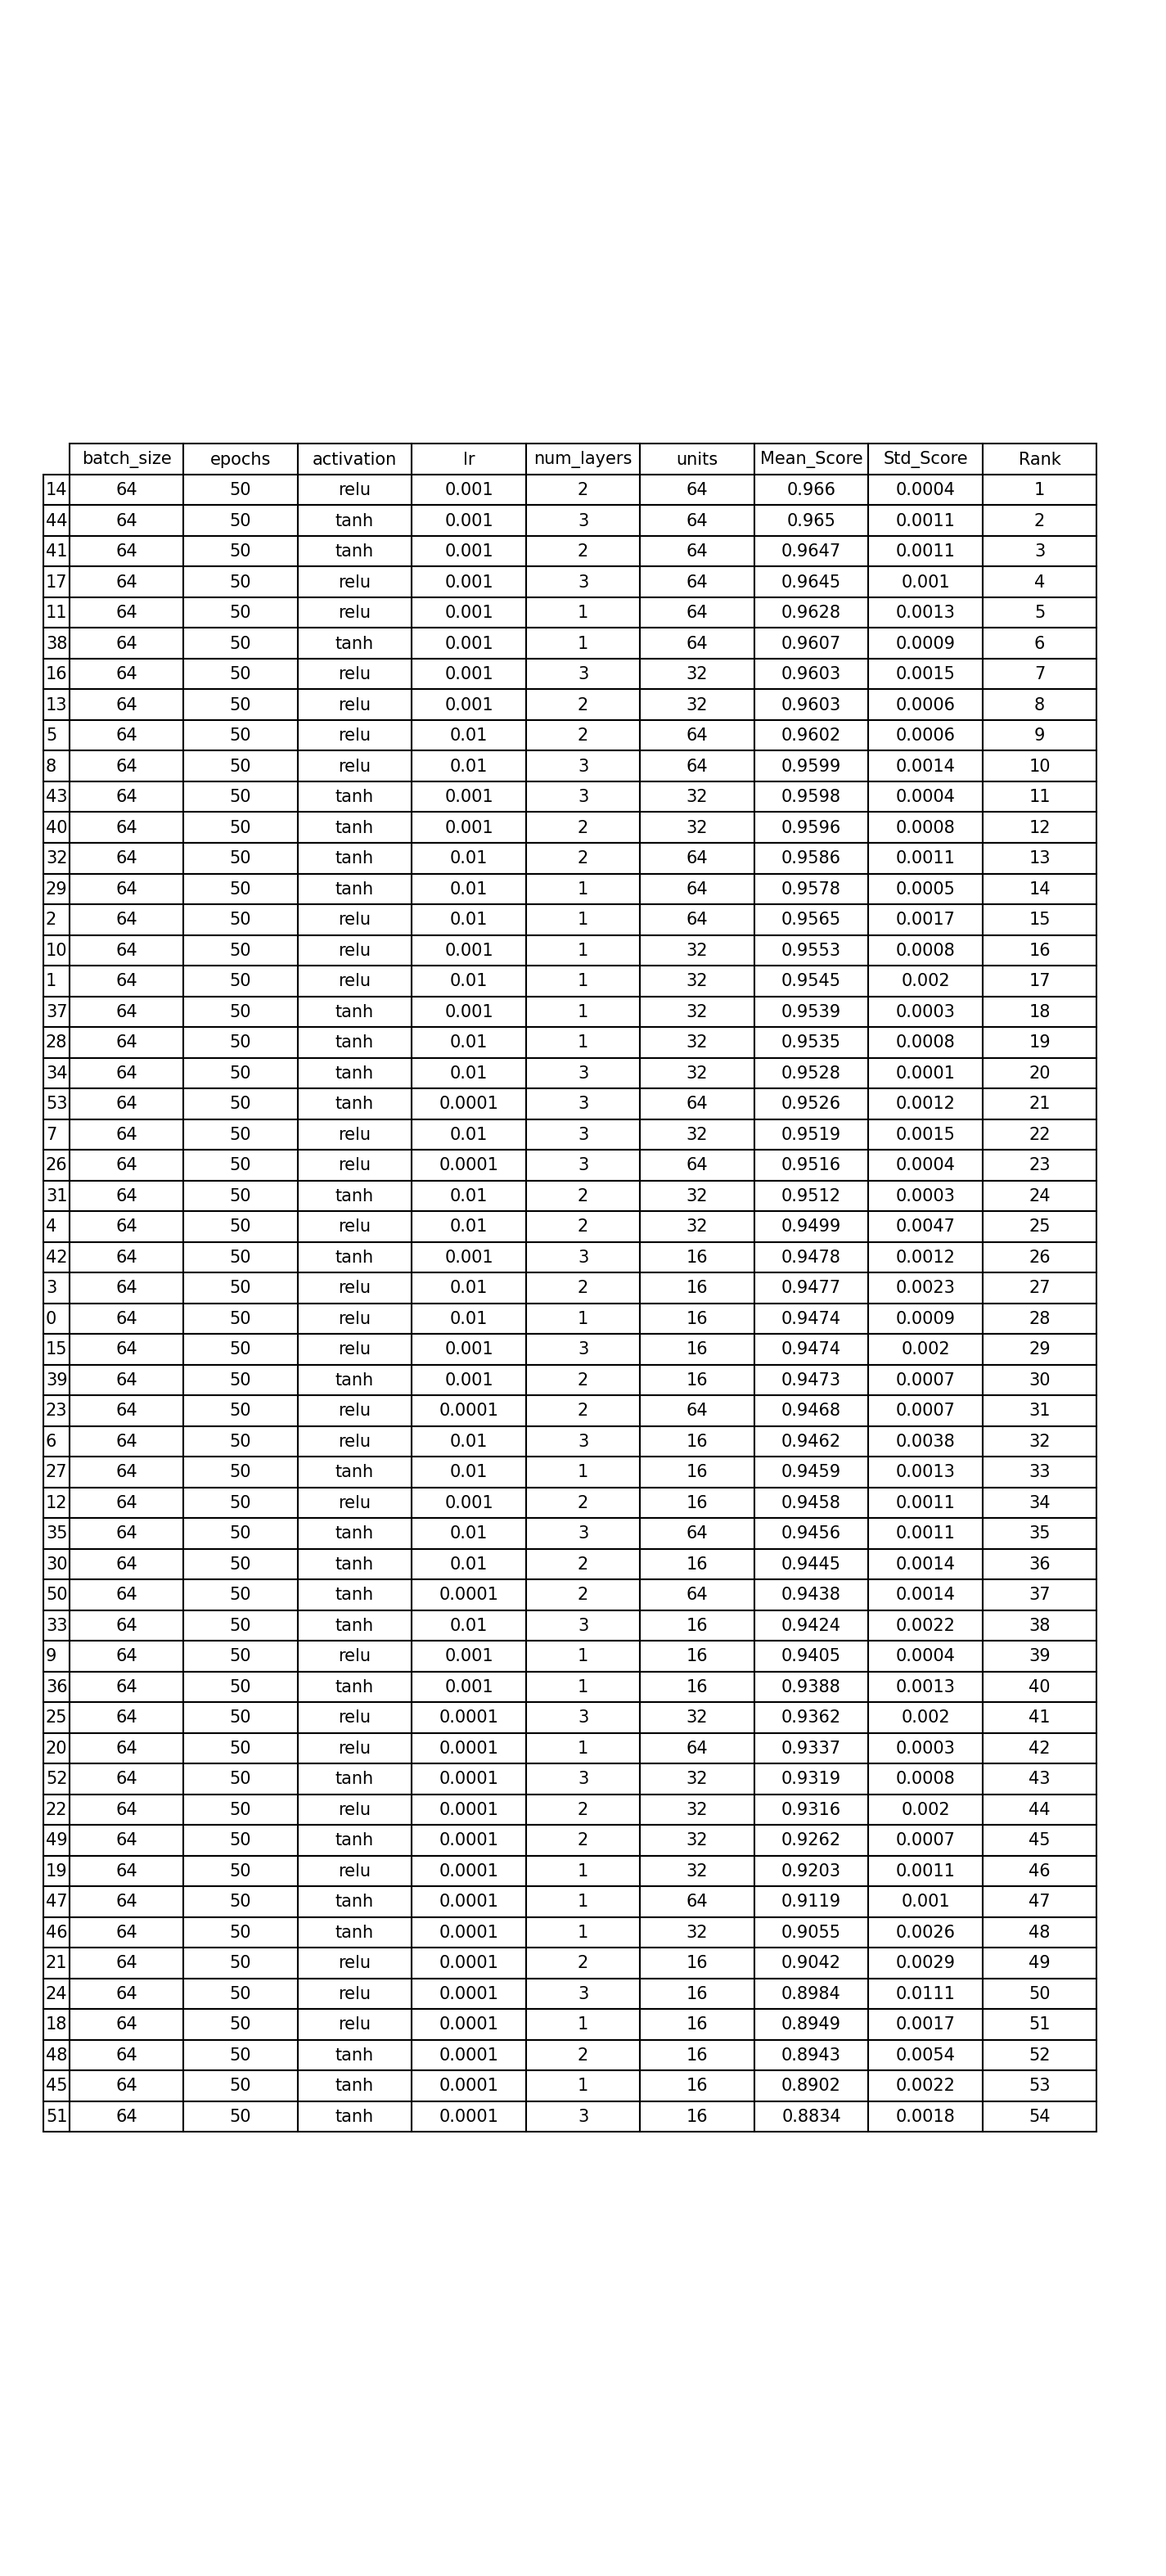
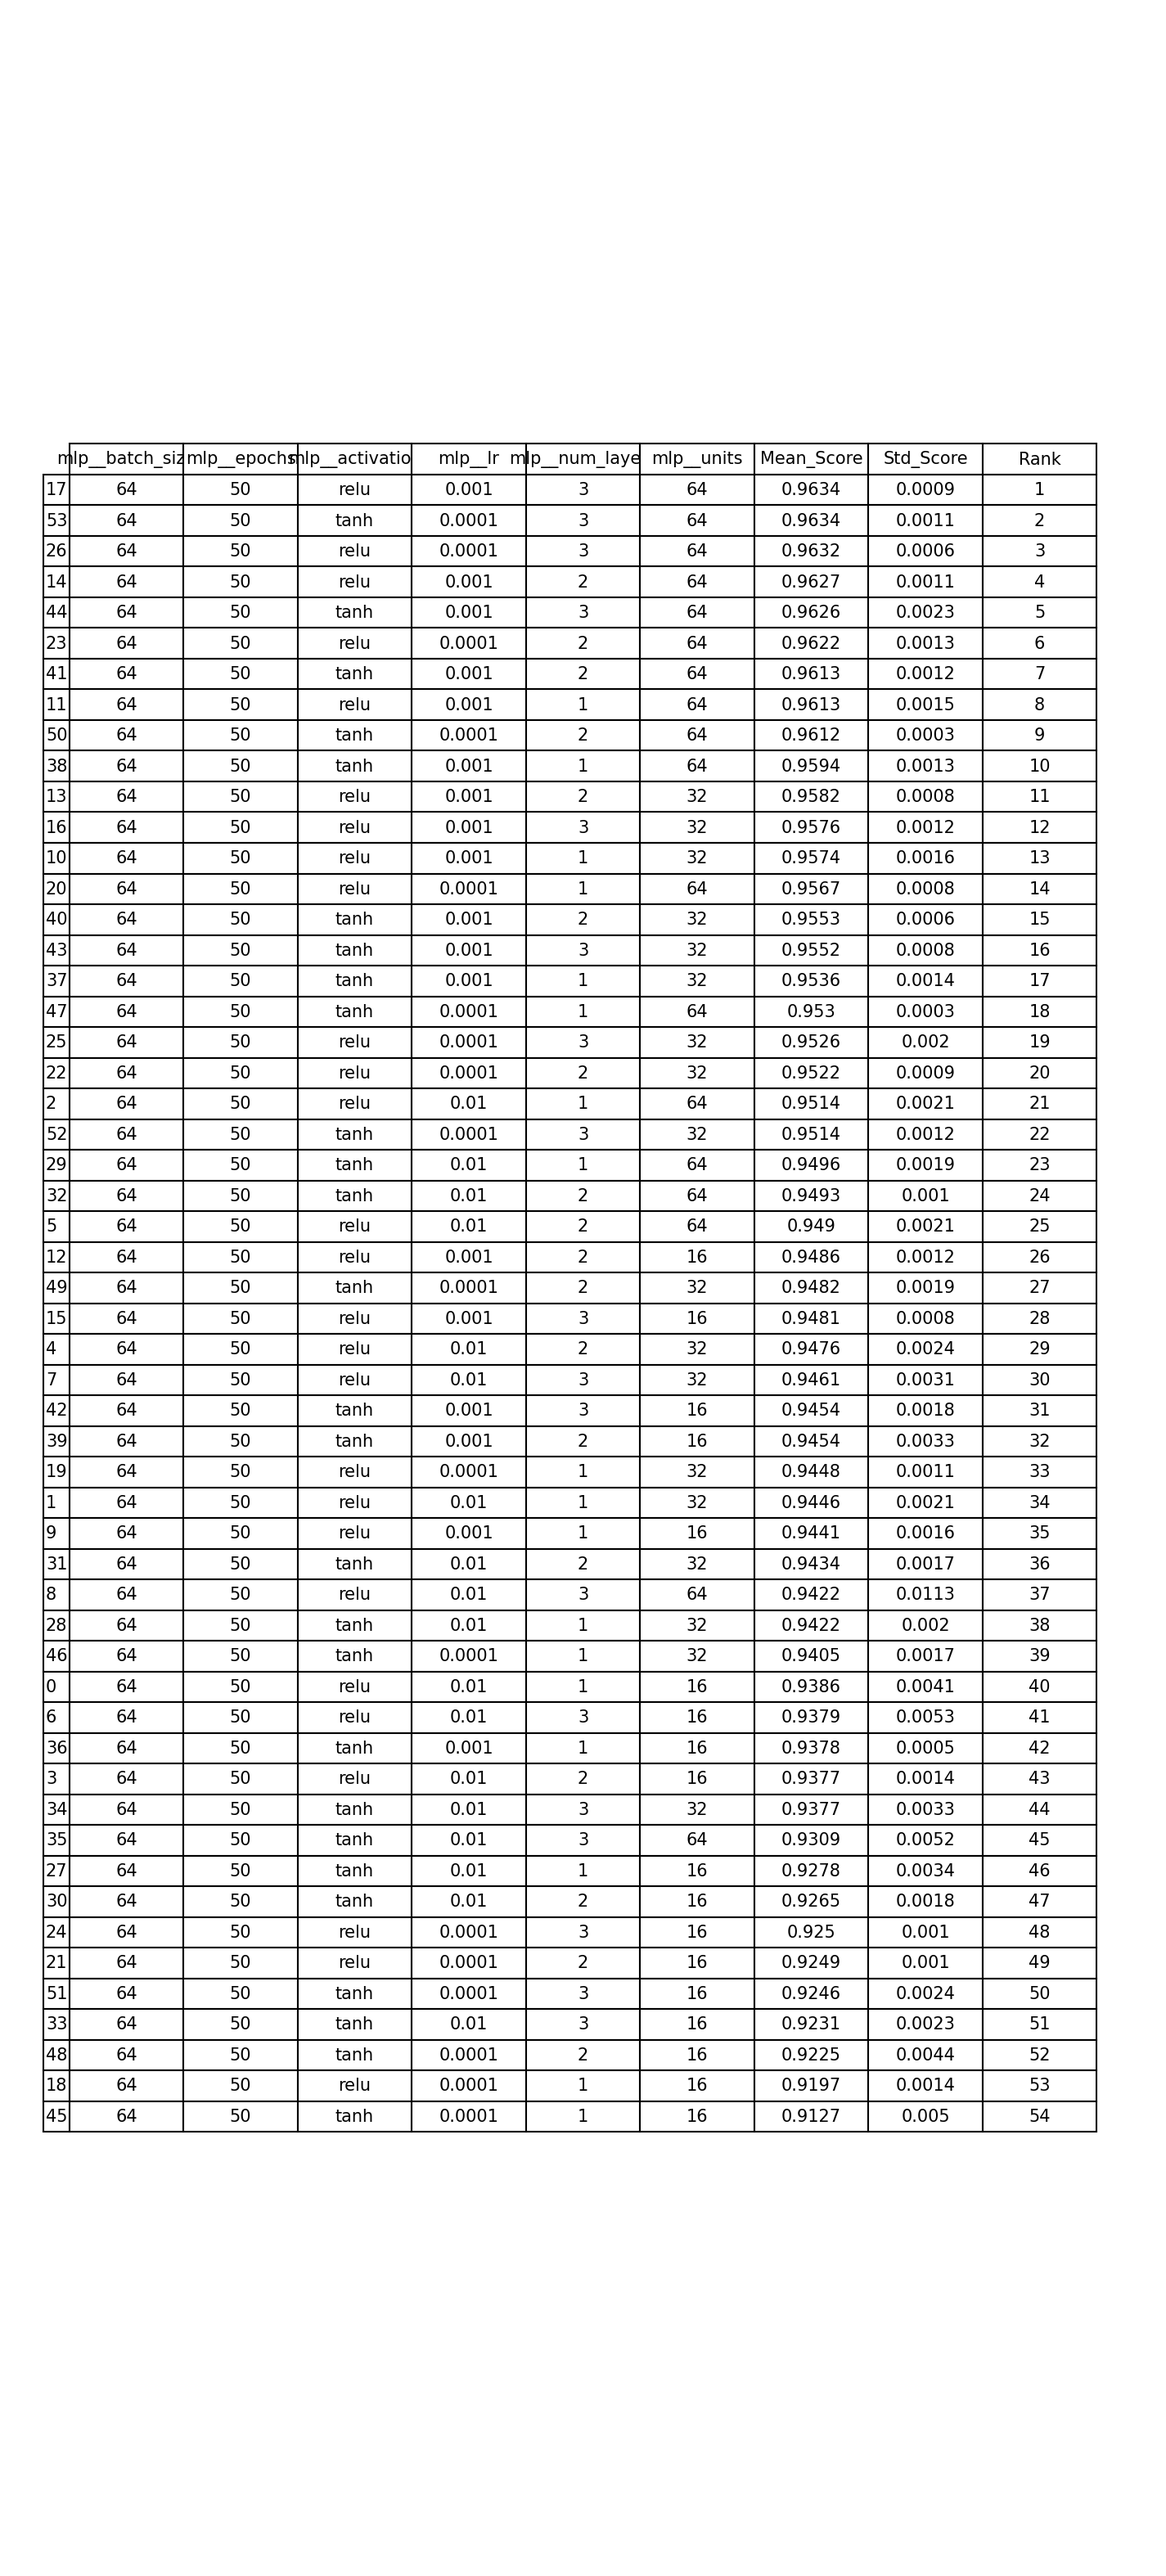
plots i metrics

diff --git a/make_plots.py b/make_plots.py
@@ -1,0 +1,119 @@
+import os
+import joblib
+import numpy as np
+import matplotlib.pyplot as plt
+
+from classes.dataloader import DataLoader
+
+from sklearn.metrics import (
+    accuracy_score,
+    precision_score,
+    recall_score,
+    f1_score,
+    confusion_matrix,
+    ConfusionMatrixDisplay,
+    classification_report,
+    roc_curve,
+    auc
+)
+from sklearn.preprocessing import label_binarize
+
+
+class ModelEvaluator:
+    def __init__(self, model_path, output_dir="results"):
+        self.model = joblib.load(model_path)
+        self.output_dir = output_dir
+
+        self.metrics_dir = os.path.join(output_dir, "metrics")
+        self.plots_dir = os.path.join(output_dir, "plots")
+
+        os.makedirs(self.metrics_dir, exist_ok=True)
+        os.makedirs(self.plots_dir, exist_ok=True)
+
+    def evaluate(self, X_test, y_test):
+        self.y_test = y_test
+        self.y_pred = self.model.predict(X_test)
+
+        # podstawowe metryki
+        results = {
+            "accuracy": accuracy_score(y_test, self.y_pred),
+            "precision": precision_score(y_test, self.y_pred, average="weighted"),
+            "recall": recall_score(y_test, self.y_pred, average="weighted"),
+            "f1": f1_score(y_test, self.y_pred, average="weighted"),
+        }
+
+        # zapis do pliku
+        with open(os.path.join(self.metrics_dir, "metrics.txt"), "w") as f:
+            for k, v in results.items():
+                f.write(f"{k}: {v:.4f}\n")
+
+        # classification report
+        report = classification_report(y_test, self.y_pred)
+        with open(os.path.join(self.metrics_dir, "classification_report.txt"), "w") as f:
+            f.write(report)
+
+        return results
+
+    def plot_confusion_matrix(self):
+        cm = confusion_matrix(self.y_test, self.y_pred)
+
+        fig, ax = plt.subplots(figsize=(10, 8))
+
+        disp = ConfusionMatrixDisplay(confusion_matrix=cm)
+        disp.plot(cmap="Blues", ax=ax, values_format='d')
+
+        # większe liczby w komórkach
+        for text in ax.texts:
+            text.set_fontsize(10)
+
+        # większe opisy osi
+        ax.set_xlabel("Predicted label", fontsize=14)
+        ax.set_ylabel("True label", fontsize=14)
+        ax.tick_params(axis='both', labelsize=12)
+
+        plt.title("Confusion Matrix", fontsize=16)
+
+        path = os.path.join(self.plots_dir, "confusion_matrix.png")
+        plt.savefig(path, bbox_inches="tight", dpi=300)
+        plt.close()
+
+    def plot_roc_curve(self, X_test, y_test):
+        # działa dla binarnej i multi-class (one-vs-rest)
+        y_score = self.model.predict_proba(X_test)
+
+        classes = np.unique(y_test)
+        y_test_bin = label_binarize(y_test, classes=classes)
+
+        plt.figure()
+
+        for i in range(len(classes)):
+            fpr, tpr, _ = roc_curve(y_test_bin[:, i], y_score[:, i])
+            roc_auc = auc(fpr, tpr)
+
+            plt.plot(fpr, tpr, label=f"Class {classes[i]} (AUC={roc_auc:.2f})")
+
+        plt.plot([0, 1], [0, 1], "k--")
+        plt.title("ROC Curve")
+        plt.xlabel("False Positive Rate")
+        plt.ylabel("True Positive Rate")
+        plt.legend()
+
+        path = os.path.join(self.plots_dir, "roc_curve.png")
+        plt.savefig(path, bbox_inches="tight")
+        plt.close()
+
+    def run_all(self, X_test, y_test):
+        results = self.evaluate(X_test, y_test)
+        self.plot_confusion_matrix()
+
+        return results
+
+data_loader = DataLoader()
+dataset = data_loader.load()
+X_test, y_test = dataset['test']
+
+model_path = 'SVM/best_model.pkl'
+output_dir = 'SVM'
+
+mlp = ModelEvaluator(model_path=model_path, output_dir=output_dir)
+mlp.run_all(X_test, y_test)

diff --git a/MLP/mlp_gridsearch.py b/MLP/mlp_gridsearch.py
@@ -21,36 +21,38 @@ np.random.seed(SEED)
 random.seed(SEED)
 tf.random.set_seed(SEED)
 
+data_loader = DataLoader()
+datasets = data_loader.load()
+
+X_train, y_train = datasets['train']
+X_test, y_test = datasets['test']
+
+X_train, y_train = shuffle(X_train, y_train, random_state=SEED)
+X_test, y_test = shuffle(X_test, y_test, random_state=SEED)
+
+input_dim = X_train.shape[1]
+num_classes = len(np.unique(y_train))
+
+def build_model_fn(num_layers=1, units=32, activation='relu', lr=0.001):
+    model = Sequential()
+    model.add(Input(shape=(input_dim,)))
+    for _ in range(num_layers):
+        model.add(Dense(units, activation=activation))
+    model.add(Dense(num_classes, activation='softmax'))
+    model.compile(optimizer=Adam(learning_rate=lr),
+                loss='sparse_categorical_crossentropy',
+                metrics=['accuracy'])
+    return model
+
 class MLPPipeline:
     def __init__(self):
-        data_loader = DataLoader()
-        datasets = data_loader.load()
+        self.model = KerasClassifier(model=build_model_fn, verbose=2)
 
-        self.X_train, self.y_train = datasets['train']
-        self.X_test, self.y_test = datasets['test']
-
-        self.X_train, self.y_train = shuffle(self.X_train, self.y_train, random_state=SEED)
-        self.X_test, self.y_test = shuffle(self.X_test, self.y_test, random_state=SEED)
-
-        self.input_dim = self.X_train.shape[1]
-        self.num_classes = len(np.unique(self.y_train))
-
-        self.model = KerasClassifier(model = self.build_model_fn, verbose=2)
         self.pipeline = Pipeline([
             ('scaler', StandardScaler()),
             ('mlp', self.model)
         ])
-    
-    def build_model_fn(self, num_layers=1, units=32, activation='relu', lr=0.001):
-        model = Sequential()
-        model.add(Input(shape=(self.input_dim,)))
-        for _ in range(num_layers):
-            model.add(Dense(units, activation=activation))
-        model.add(Dense(self.num_classes, activation='softmax'))
-        model.compile(optimizer=Adam(learning_rate=lr),
-                    loss='sparse_categorical_crossentropy',
-                    metrics=['accuracy'])
-        return model
+
     
     def train(self):
         param_grid = {
@@ -63,7 +65,7 @@ class MLPPipeline:
         }
 
         trainer = GridSearchTrainer(self.pipeline, param_grid)
-        grid_result = trainer.train(self.X_train, self.y_train) # trenowanie
+        grid_result = trainer.train(X_train, y_train) # trenowanie
 
         os.makedirs("MLP", exist_ok=True)
         joblib.dump(grid_result.best_estimator_, "MLP/best_model.pkl")
